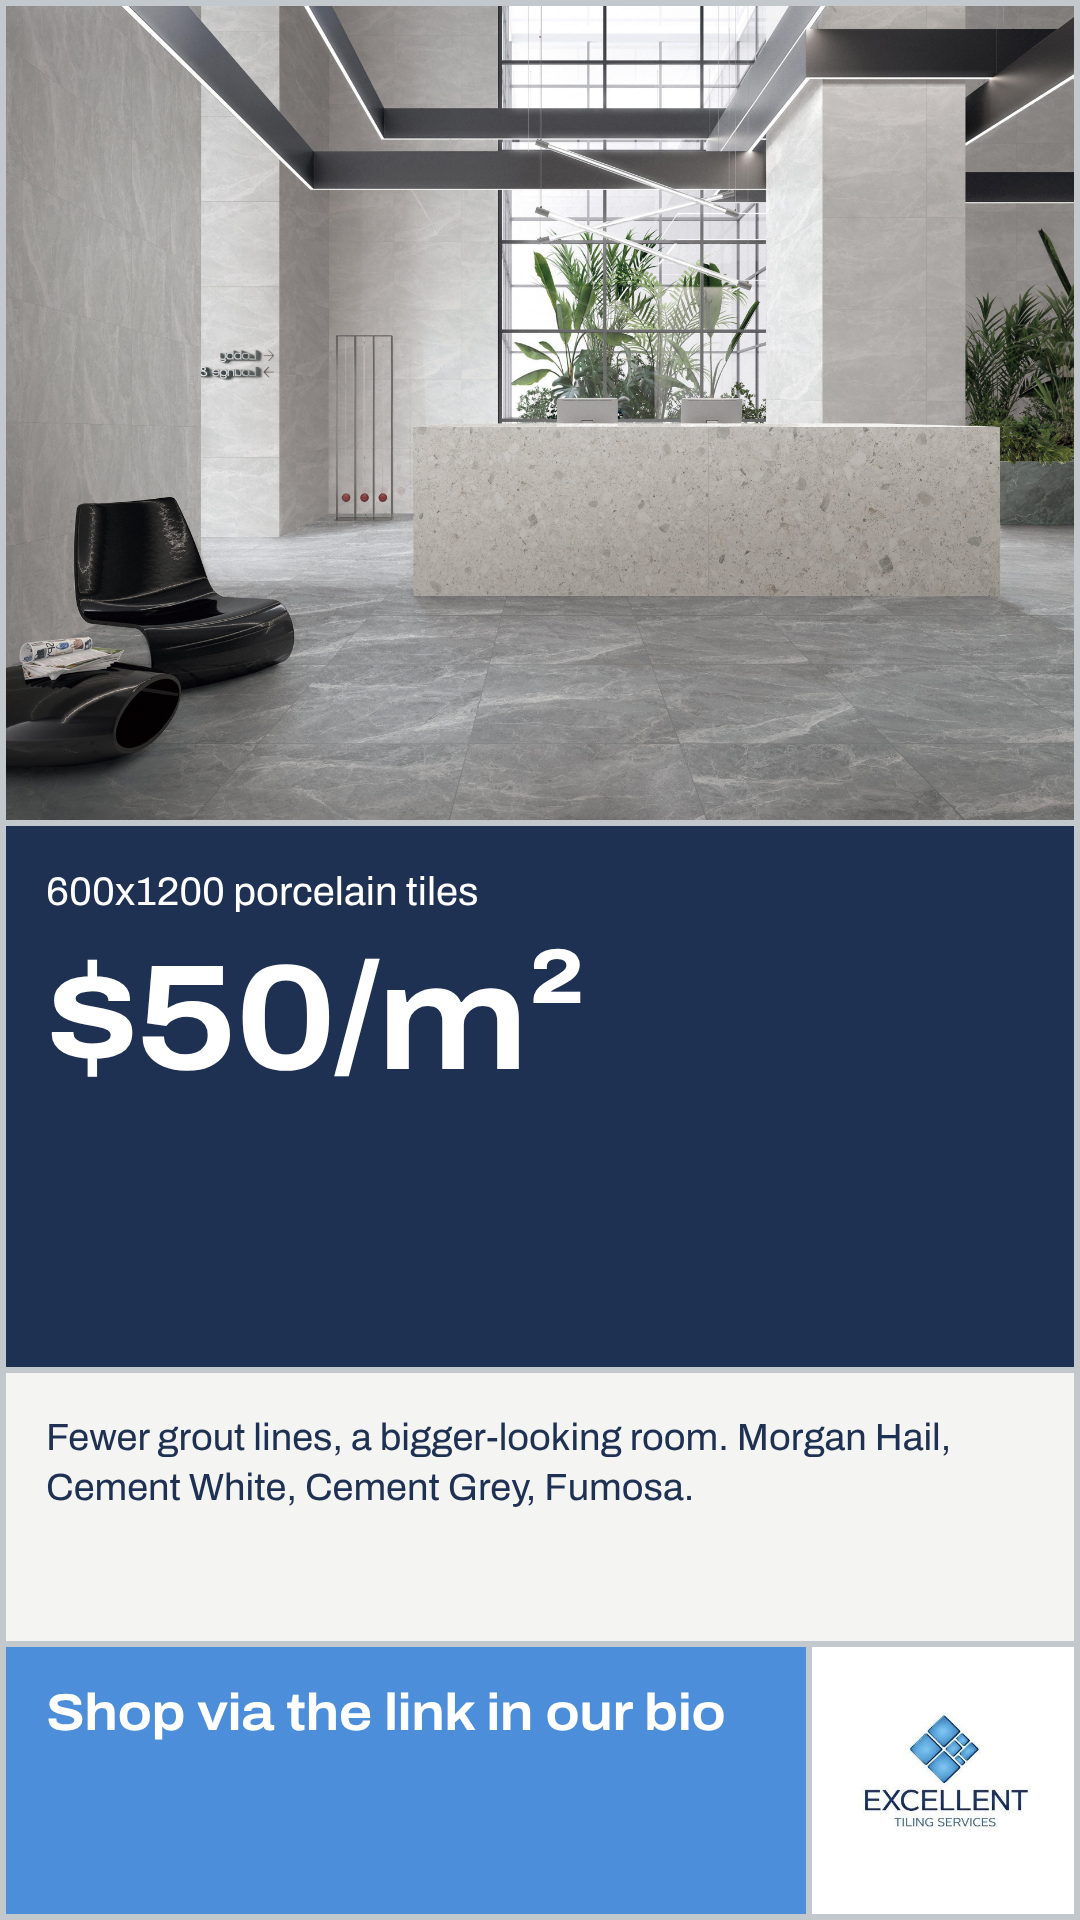
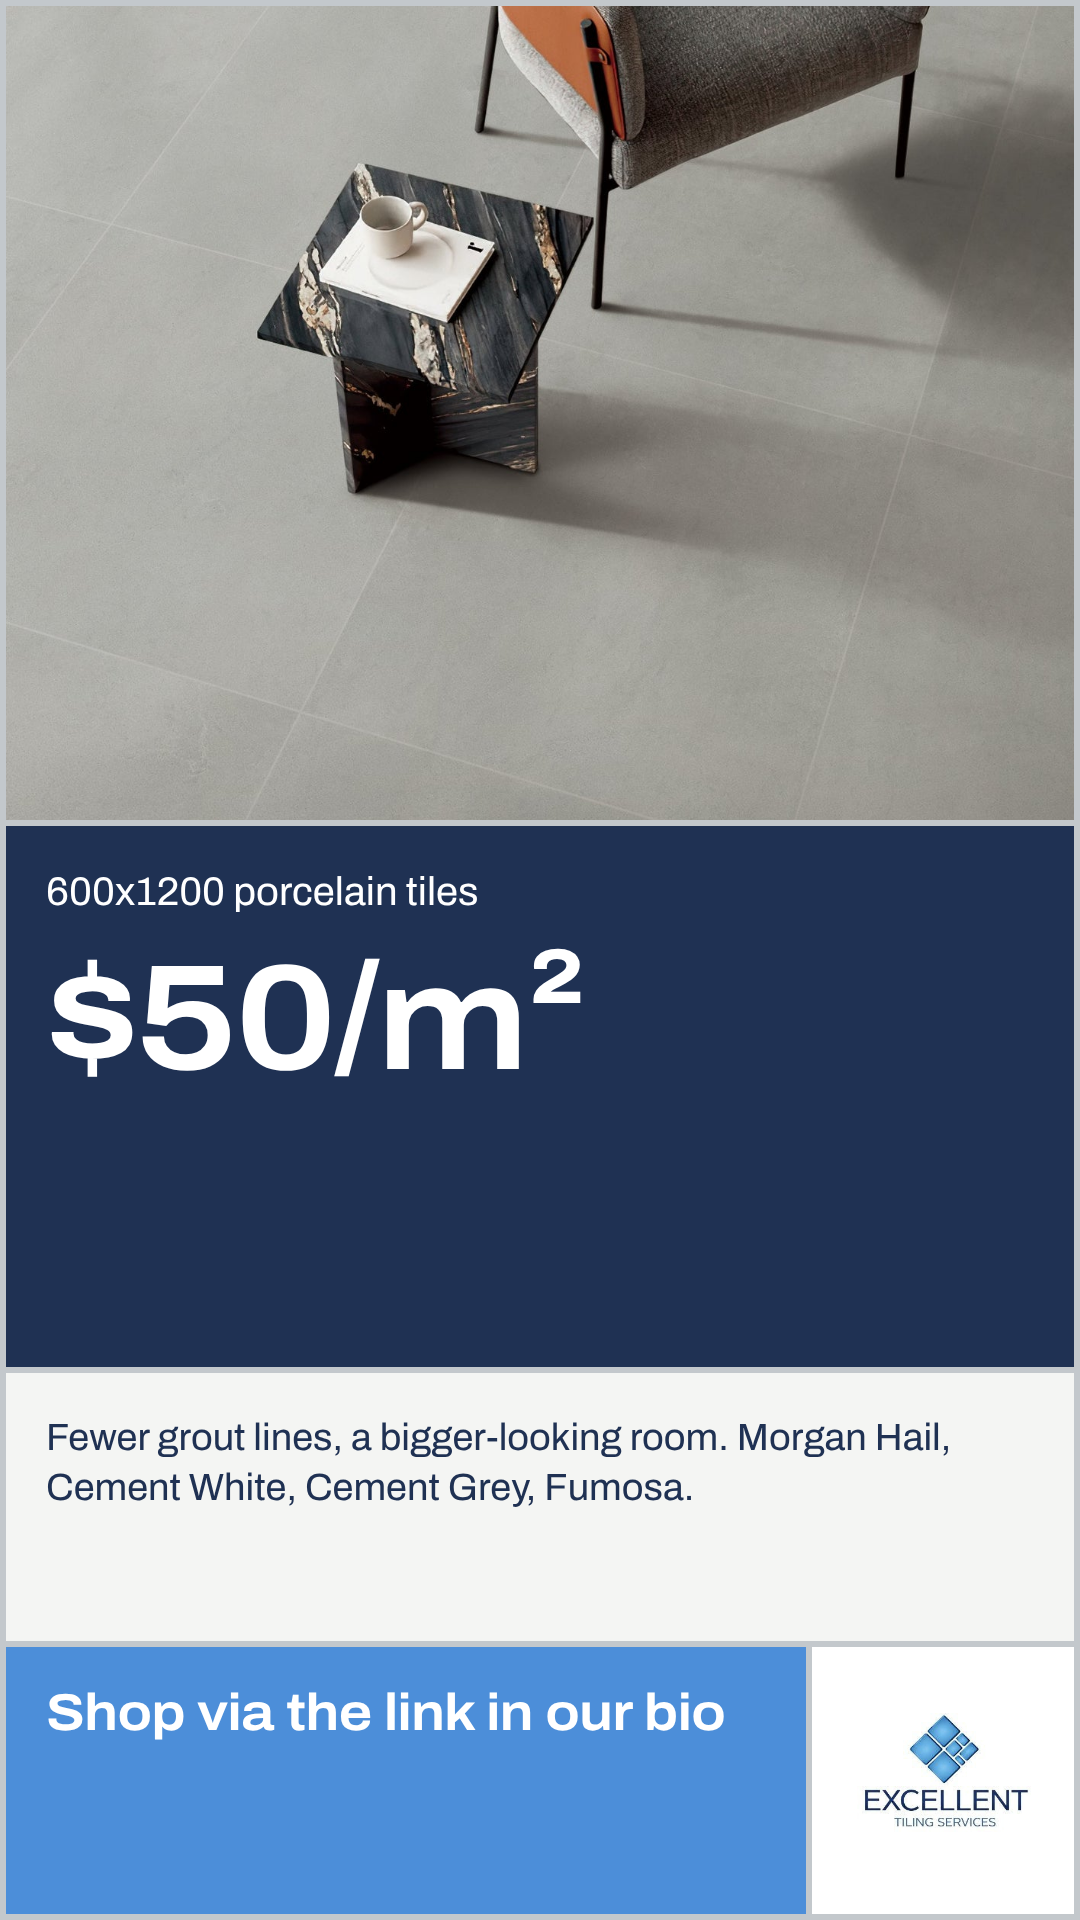
Week of 9 Nov: copy review fixes, 7 product posts scheduled in Metricool
Claude-Session: https://claude.ai/code/session_01GgaKwyQoBxwXCKKmrZMp2T

Changed region(s): [[0.0, 0.0, 1.0, 0.4375]]

diff --git a/marketing/finish-it-right/source/build.py b/marketing/finish-it-right/source/build.py
@@ -162,9 +162,9 @@ def mcbody(o):
      f'<div class="t blue" {a("1/2",R(5))} style="padding:26px"><p class="small">Prices inc GST. Pick up free in Maddington, or we deliver.</p></div>')
 posts.update({
 'MC-mirror-clearance':
- f'<div class="t navy" {a("1/4","1/2")}><h1 style="font-size:84px">Mirror clearance</h1><p class="bot">Up to 36% off RRP. Limited stock, while stocks last.</p></div>'+LOGO('4/5','1/2')+mcbody(0),
+ f'<div class="t navy" {a("1/4","1/2")}><h1 style="font-size:84px">Mirror clearance</h1><p class="bot">Up to 36% off RRP.</p></div>'+LOGO('4/5','1/2')+mcbody(0),
 'S-mirror-clearance':
- f'<div class="t navy" {a("1/5","1/3")}><h1 style="font-size:150px">Mirror clearance</h1><p class="bot" style="font-size:40px">Up to 36% off RRP. Limited stock, while stocks last.</p></div>'+mcbody(1)+
+ f'<div class="t navy" {a("1/5","1/3")}><h1 style="font-size:150px">Mirror clearance</h1><p class="bot" style="font-size:40px">Up to 36% off RRP.</p></div>'+mcbody(1)+
  f'<div class="t deep" {a("1/4","7/8")}><h2 style="font-size:44px">Clearance section at excellenttilingservices.com</h2></div>'+LOGO('4/5','7/8'),
 })
 
@@ -176,7 +176,7 @@ BIO=lambda r: f'<div class="t blue" {a("1/4",r)}><h2 style="font-size:52px">Shop
 def step(n,r,txt): return f'<div class="t" {a("1/5",r)} style="display:flex;align-items:center;gap:44px"><div class="big" style="color:var(--blue);min-width:110px">{n}</div><p style="font-size:40px">{txt}</p></div>'
 posts.update({
 'W1-big-tiles':
- wimg('hail-big.jpg','1/5','1/4','','Morgan Hail')+
+ img('cement-room.jpg','1/5','1/4','','Cement Grey')+
  f'<div class="t navy" {a("1/4","4/6")}><h1 style="font-size:84px">Small bathroom? Go bigger on the tiles.</h1><p class="bot">Fewer grout lines, so the floor reads as one surface.</p></div>'+
  f'<div class="t blue" {a("4/5","4/5")}><p class="small">600x1200</p><h2 class="bot" style="font-size:50px">$50/m²</h2></div>'+LOGO('4/5','5/6'),
 'W2-toilets':
@@ -184,14 +184,14 @@ posts.update({
  wimg('element.jpg','1/2','2/4','fit','Element<br>$500','dark')+wimg('edge.png','2/3','2/4','fit','Edge<br>$550','dark')+
  wimg('forma.png','3/4','2/4','fit','Forma<br>$550','dark')+wimg('clarice.jpg','4/5','2/4','fit','Clarice<br>$660','dark')+
  wimg('flow.png','1/2','4/5','fit','Flow $660','dark')+wimg('vero.png','2/3','4/5','fit','Vero $1,299','dark')+
- f'<div class="t" {a("3/5","4/5")}><p>Rimless bowls. Every price online.</p></div>'+
+ f'<div class="t" {a("3/5","4/5")}><p>Rimless bowls. Soft close seats.</p></div>'+
  f'<div class="t blue" {a("1/4","5/6")}><p>Perth delivery, or pick up free in Maddington</p></div>'+LOGO('4/5','5/6'),
 'W3-measure':
  f'<div class="t navy" {a("1/5","1/2")}><h1 style="font-size:84px">How much tile do you need?</h1></div>'+
  step(1,'2/3','Measure length x width of each part of the room, in metres.')+
  step(2,'3/4','Add them up.')+
- step(3,'4/5','Add 10% for cuts. 15% for herringbone or diagonal.')+
- f'<div class="t blue" {a("1/4","5/6")}><p>Our tile calculator on every tile page does steps 2 and 3 for you.</p></div>'+LOGO('4/5','5/6'),
+ step(3,'4/5','Add 10% for cuts. 20% for herringbone or diagonal.')+
+ f'<div class="t blue" {a("1/4","5/6")}><p>Type your total into the calculator on any tile page. It adds the cuts for you.</p></div>'+LOGO('4/5','5/6'),
 'W4-smart':
  wimg('elite.png','1/3','1/4','fit')+
  f'<div class="t navy" {a("3/5","1/4")}><h2 style="font-size:70px">What does a smart toilet do?</h2><p class="bot">A built-in bidet wash. Less paper, and a cleaner feel.</p></div>'+
@@ -201,25 +201,25 @@ posts.update({
 'W6-rimless':
  wimg('flow.png','1/3','1/4','fit')+
  f'<div class="t navy" {a("3/5","1/4")}><h1 style="font-size:96px">Why rimless?</h1></div>'+
- f'<div class="t" {a("1/5","4/5")}><p style="font-size:38px">No hidden rim under the bowl, so there\'s nowhere for grime to hide. One wipe and it\'s clean.</p></div>'+
+ f'<div class="t" {a("1/5","4/5")}><p style="font-size:38px">No rim curling over the top of the bowl, so there\'s nowhere for grime to hide. One wipe and it\'s clean.</p></div>'+
  f'<div class="t blue" {a("1/4","5/6")}><h2 style="font-size:46px">Every Eternal toilet we sell is rimless. From $500.</h2></div>'+LOGO('4/5','5/6'),
 'W7-photo':
  img('brittany2.jpg','1/5','1/3')+
  f'<div class="t navy" {a("1/5","3/5")}><h1 style="font-size:100px">Send us a photo of your bathroom</h1><p class="bot" style="font-size:36px">We\'ll reply with the one change we\'d make first, and what it costs.</p></div>'+
  f'<div class="t blue" {a("1/4","5/6")}><h2 style="font-size:50px">DM us, or comment “photo”</h2></div>'+LOGO('4/5','5/6'),
 'S-W1-big-tiles':
- wimg('hail-big.jpg','1/5','1/4')+
+ img('cement-room.jpg','1/5','1/4')+
  f'<div class="t navy" {a("1/5","4/6")}><p style="font-size:40px">600x1200 porcelain tiles</p><h1 style="font-size:150px;margin-top:30px">$50/m²</h1></div>'+
  f'<div class="t" {a("1/5","6/7")}><p style="font-size:38px">Fewer grout lines, a bigger-looking room. Morgan Hail, Cement White, Cement Grey, Fumosa.</p></div>'+BIO('7/8'),
 'S-W2-toilets':
  wimg('element.jpg','1/3','1/4','fit')+wimg('vero.png','3/5','1/4','fit')+
- f'<div class="t navy" {a("1/5","4/7")}><h1 style="font-size:140px">New in: toilets from $500</h1><p class="bot" style="font-size:40px">Rimless bowls. Perth delivery or free pickup.</p></div>'+BIO('7/8'),
+ f'<div class="t navy" {a("1/5","4/7")}><h1 style="font-size:140px">New Eternal &amp; Caleb toilets, from $500</h1><p class="bot" style="font-size:40px">Rimless bowls. Perth delivery or free pickup.</p></div>'+BIO('7/8'),
 'S-W3-sketch':
  f'<div class="t navy" {a("1/5","1/5")}><h1 style="font-size:140px">Odd-shaped room?</h1><p class="bot" style="font-size:48px">Send us a sketch with the measurements. We\'ll work out how much tile you need.</p></div>'+
  img('moon-room.jpg','1/5','5/7')+f'<div class="t blue" {a("1/4","7/8")}><h2 style="font-size:52px">DM us your sketch</h2></div>'+LOGO('4/5','7/8'),
 'S-W4-smart':
  wimg('elite.png','1/5','1/4','fit')+
- f'<div class="t navy" {a("1/5","4/7")}><p style="font-size:40px">Smart toilets</p><h1 style="font-size:150px;margin-top:30px">From $2,999</h1><p class="bot" style="font-size:40px">Built-in bidet wash. Perth delivery.</p></div>'+BIO('7/8'),
+ f'<div class="t navy" {a("1/5","4/7")}><p style="font-size:40px">Crystal smart toilets</p><h1 style="font-size:150px;margin-top:30px">From $2,999</h1><p class="bot" style="font-size:40px">Built-in bidet wash. Perth delivery.</p></div>'+BIO('7/8'),
 'S-W6-rimless':
  wimg('flow.png','1/5','1/4','fit')+
  f'<div class="t navy" {a("1/5","4/7")}><h1 style="font-size:140px">Rimless. One wipe, clean.</h1><p class="bot" style="font-size:40px">Eternal toilets from $500.</p></div>'+BIO('7/8'),

diff --git a/marketing/week-2026-11-09/README.md b/marketing/week-2026-11-09/README.md
@@ -76,3 +76,12 @@ Thu smart toilet video clip · Fri `S-mirror-clearance` (if in stock) · Sat "On
 ## Rules kept
 
 No discount code, no "cheaper than" claims, tile supplier not named. Toilets are Perth delivery only (not posted).
+
+## Status (7 Nov 2026)
+
+- Copy review (ets-copy-review) done; its fixes are in `posts.json` and the graphics (20% for herringbone, "rim curling over
+  the top", "Crystal smart toilets", no "Limited stock" on the mirror graphics, Monday photo now Cement Grey).
+- Scheduled in Metricool: all 7 product posts (12:15 pm), ids in `results.json`.
+- Not yet scheduled: the 7 main posts and 7 Stories. Their graphics (`graphics/`) must go on Shopify Files first; the upload
+  from this session was blocked by its permission check, so it needs the owner's OK or a manual upload in Shopify admin
+  (Content > Files). Then schedule from `posts.json`.
